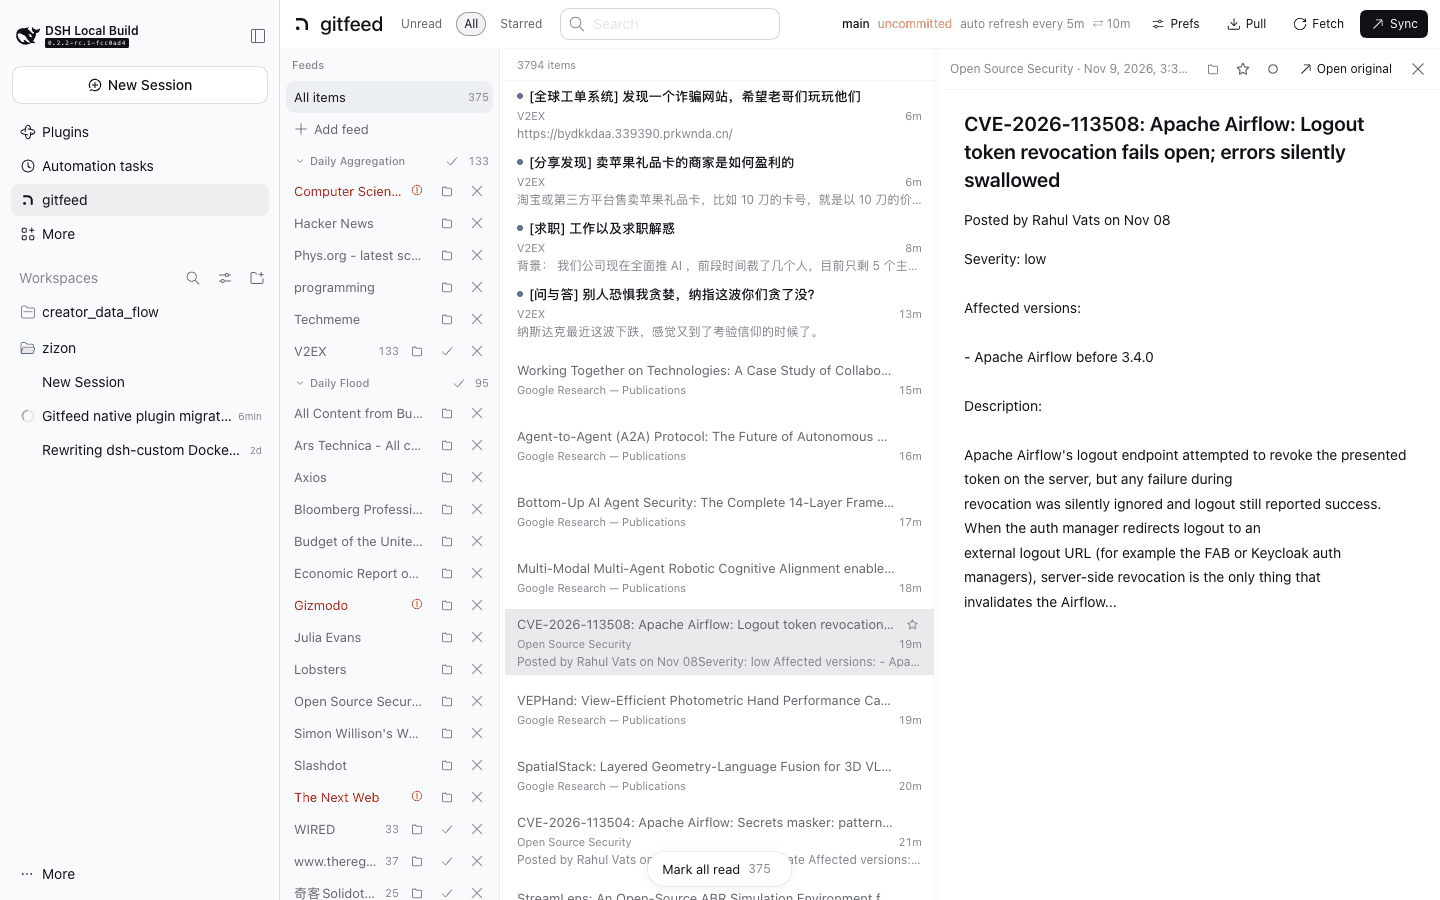
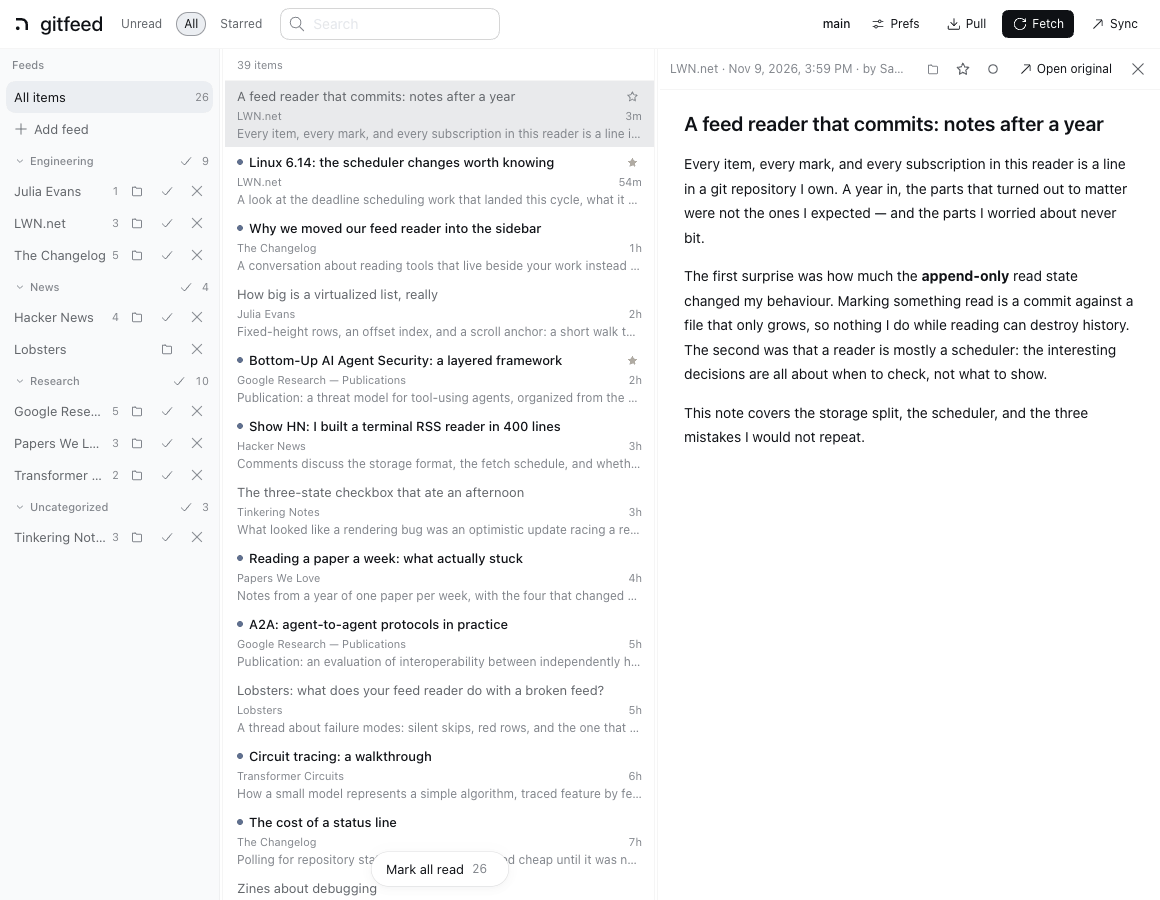
readme: demo screenshots, and the audit for a public repository
The screenshots shipped in the last commit were of a real reader: somebody's
subscriptions, article titles, and reading history, in a repository that is
about to be public. They are now taken against `docs/screenshots/demo-library.js`
— a fixture that answers the reader's own `/gitfeed/api/state` route — so the
images show the plugin, not a person. The app's session sidebar is cropped out
for the same reason, and the file is shipped so the images can be retaken.

Audit of the whole history (97 commits, 98 tracked files) for a public audience:

- no credentials: no token, key, or private key shape in any commit, no
  `.env`, keychain, or credential file ever added, no internal hostname or
  absolute home path in tracked files
- no user data: `feeds.json`, `config.json`, and `data/` were never in this
  repository, which is what the two-repository split is for
- what remains is commit metadata: 96 commits carry a personal email address

Statements that were true only while the repository was private are gone: the
visibility table says public, the release section explains that `--provenance`
can be switched on once the repository is public, and the workflow and
`.gitignore` comments no longer describe a token-based release that the trusted
publisher replaced. `package.json` gains the author, homepage, bugs, and
keywords a public package should carry.

diff --git a/docs/screenshots/demo-library.js b/docs/screenshots/demo-library.js
@@ -1,0 +1,163 @@
+/**
+ * The library the screenshots in this directory were taken with.
+ *
+ * A public README must not picture somebody's real subscriptions, items, or
+ * reading history, so the captures are of the plugin running against this
+ * fixture instead: injected as an init script, it answers the reader's own
+ * `/gitfeed/api/state` route with a demo library and accepts every mutation
+ * without writing anything. Nothing here talks to a real data root.
+ *
+ * To retake the images: open the plugin page with this file as the document's
+ * init script, then open an item and the folder picker.
+ */
+
+/* eslint-disable */
+;(function demoLibrary() {
+  const HOUR = 3600 * 1000
+  const now = Date.now()
+  const at = function (hoursAgo) { return new Date(now - hoursAgo * HOUR).toISOString() }
+
+  const feeds = [
+    { id: 'lwn', title: 'LWN.net', folder: 'Engineering', siteUrl: 'https://lwn.net/', url: 'https://lwn.net/headlines/rss', error: null, checkedAt: at(0.02), kind: 'rss' },
+    { id: 'changelog', title: 'The Changelog', folder: 'Engineering', siteUrl: 'https://changelog.com/', url: 'https://changelog.com/feed', error: null, checkedAt: at(0.1), kind: 'rss' },
+    { id: 'jvns', title: 'Julia Evans', folder: 'Engineering', siteUrl: 'https://jvns.ca/', url: 'https://jvns.ca/atom.xml', error: null, checkedAt: at(0.3), kind: 'rss' },
+    { id: 'papers', title: 'Papers We Love', folder: 'Research', siteUrl: 'https://paperswelove.org/', url: 'https://paperswelove.org/feed', error: null, checkedAt: at(0.4), kind: 'rss' },
+    { id: 'transformer', title: 'Transformer Circuits', folder: 'Research', siteUrl: 'https://transformer-circuits.pub/', url: 'https://transformer-circuits.pub/feed.xml', error: null, checkedAt: at(0.5), kind: 'rss' },
+    { id: 'google', title: 'Google Research — Publications', folder: 'Research', siteUrl: 'https://research.google/pubs/', url: 'https://research.google/pubs/', error: null, checkedAt: at(0.6), kind: 'custom' },
+    { id: 'hn', title: 'Hacker News', folder: 'News', siteUrl: 'https://news.ycombinator.com/', url: 'https://news.ycombinator.com/rss', error: null, checkedAt: at(0.2), kind: 'rss' },
+    { id: 'lobsters', title: 'Lobsters', folder: 'News', siteUrl: 'https://lobste.rs/', url: 'https://lobste.rs/rss', error: null, checkedAt: at(0.7), kind: 'rss' },
+    { id: 'tinkering', title: 'Tinkering Notes', folder: null, url: 'https://tinkering.example/feed.xml', siteUrl: 'https://tinkering.example/', error: null, checkedAt: at(0.8), kind: 'rss' },
+  ]
+
+  /** [title, feed, hours ago, author, summary] */
+  const rows = [
+    ['A feed reader that commits: notes after a year', 'lwn', 0.05, 'Sam Reyes',
+      '<p>Every item, every mark, and every subscription in this reader is a line in a git repository I own. A year in, the parts that turned out to matter were not the ones I expected — and the parts I worried about never bit.</p>'
+      + '<p>The first surprise was how much the <strong>append-only</strong> read state changed my behaviour. Marking something read is a commit against a file that only grows, so nothing I do while reading can destroy history. The second was that a reader is mostly a scheduler: the interesting decisions are all about when to check, not what to show.</p>'
+      + '<p>This note covers the storage split, the scheduler, and the three mistakes I would not repeat.</p>'],
+    ['Linux 6.14: the scheduler changes worth knowing', 'lwn', 0.9, 'Rebecca Chen',
+      '<p>A look at the deadline scheduling work that landed this cycle, what it means for latency-sensitive workloads, and the two benchmarks that do not agree.</p>'],
+    ['Why we moved our feed reader into the sidebar', 'changelog', 1.4, 'The Changelog',
+      '<p>A conversation about reading tools that live beside your work instead of in another tab, and what that changes about how often you actually read.</p>'],
+    ['How big is a virtualized list, really', 'jvns', 2.1, 'Julia Evans',
+      '<p>Fixed-height rows, an offset index, and a scroll anchor: a short walk through the arithmetic that keeps a ten-thousand-row list from re-rendering itself.</p>'],
+    ['Bottom-Up AI Agent Security: a layered framework', 'google', 2.8, null,
+      '<p>Publication: a threat model for tool-using agents, organized from the sandbox outward.</p>'],
+    ['Show HN: I built a terminal RSS reader in 400 lines', 'hn', 3.2, 'hn-user',
+      '<p>Comments discuss the storage format, the fetch schedule, and whether read state belongs in git at all.</p>'],
+    ['The three-state checkbox that ate an afternoon', 'tinkering', 3.9, 'A. Developer',
+      '<p>What looked like a rendering bug was an optimistic update racing a reload. The fix was a queue and a debounce, and the lesson was about who owns the truth.</p>'],
+    ['Reading a paper a week: what actually stuck', 'papers', 4.5, 'Marta Silva',
+      '<p>Notes from a year of one paper per week, with the four that changed how I write code and the twenty that did not.</p>'],
+    ['A2A: agent-to-agent protocols in practice', 'google', 5.1, null,
+      '<p>Publication: an evaluation of interoperability between independently hosted agents.</p>'],
+    ['Lobsters: what does your feed reader do with a broken feed?', 'lobsters', 5.7, 'lobster',
+      '<p>A thread about failure modes: silent skips, red rows, and the one that made everyone argue — retry budgets.</p>'],
+    ['Circuit tracing: a walkthrough', 'transformer', 6.4, 'Transformer Circuits',
+      '<p>How a small model represents a simple algorithm, traced feature by feature, with the code to reproduce it.</p>'],
+    ['The cost of a status line', 'changelog', 7.2, 'The Changelog',
+      '<p>Polling for repository state every minute sounded cheap until it was not. What we changed, and the numbers.</p>'],
+    ['Zines about debugging', 'jvns', 8.0, 'Julia Evans',
+      '<p>Print, staple, and debug: a small collection of illustrations about the parts of programming nobody documents.</p>'],
+    ['Show HN: read state as NDJSON', 'hn', 8.8, 'hn-user',
+      '<p>One object per line, merged with union, and never rewritten. Comments ask the obvious question: what about deletes?</p>'],
+    ['Multi-modal alignment for robotic control', 'google', 9.6, null,
+      '<p>Publication: aligning vision and language embeddings for manipulation policies.</p>'],
+    ['A tiny scheduler with adaptive intervals', 'tinkering', 10.5, 'A. Developer',
+      '<p>Per-feed clocks, a backoff that only grows, and a debounce for reads. The whole thing is one interface with four methods.</p>'],
+    ['What we learned deleting a server-side job', 'changelog', 11.3, 'The Changelog',
+      '<p>Two hundred lines of workflow replaced by a timer that dies with the process, and why nobody missed it.</p>'],
+    ['The Go Blog: profiling without a profiler', 'hn', 12.1, 'hn-user',
+      '<p>Counting allocations by hand is old advice that still works when the tooling is not available.</p>'],
+    ['Papers We Love: distributed consensus, revisited', 'papers', 13.0, 'Marta Silva',
+      '<p>Rereading the Raft paper after a decade of production systems, with the sections that aged well.</p>'],
+    ['Sparse attention: what the numbers say', 'transformer', 14.2, 'Transformer Circuits',
+      '<p>A comparison of sparse and dense attention on long-context tasks, with the evaluation that changed our mind.</p>'],
+    ['Notes on writing a plugin that does nothing on its own', 'lwn', 15.1, 'Sam Reyes',
+      '<p>A plugin that owns no data and starts no server has a much smaller surface: the root is somewhere else, and the code can be public.</p>'],
+    ['Lobsters: how do you keep a reading list?', 'lobsters', 16.4, 'lobster',
+      '<p>Bookmarks, stars, and folders, and the people who use none of them.</p>'],
+    ['A year of small tools', 'tinkering', 17.8, 'A. Developer',
+      '<p>Twelve scripts, four still used daily, and the one that survived because it wrote nothing down.</p>'],
+    ['Show HN: git as a database for personal data', 'hn', 19.2, 'hn-user',
+      '<p>The comments split evenly between "obviously" and "please stop".</p>'],
+    ['Visualising a scroll anchor', 'jvns', 20.9, 'Julia Evans',
+      '<p>What actually happens to the viewport when rows land above the band you are reading.</p>'],
+    ['Publication: constrained decoding for small models', 'google', 22.4, null,
+      '<p>Publication: a grammar-guided decoder that runs inside the sampling loop.</p>'],
+    ['Steady state maintenance', 'papers', 24.0, 'Marta Silva',
+      '<p>A short paper on why the hard part of software is the second year.</p>'],
+    ['The archive is the product', 'lwn', 26.5, 'Rebecca Chen',
+      '<p>Feeds come and go; a durable local archive is what makes a reader worth keeping.</p>'],
+    ['Reading in a sidebar, six months later', 'changelog', 29.0, 'The Changelog',
+      '<p>Follow-up on a popular episode: what changed, and the two numbers that moved.</p>'],
+    ['A copy of every article, forever', 'tinkering', 31.5, 'A. Developer',
+      '<p>Retention is a policy, not a storage limit: what six months of items costs on disk.</p>'],
+    ['Show HN: an RSS reader with no server', 'hn', 34.0, 'hn-user',
+      '<p>Everything runs where you read it, which means nothing to deploy and nothing to keep running.</p>'],
+    ['The folder that should not exist', 'jvns', 37.0, 'Julia Evans',
+      '<p>On naming conventions that outlive the code that needed them.</p>'],
+    ['Publication: measuring tool-use reliability', 'google', 40.0, null,
+      '<p>Publication: an evaluation harness for agent tool calls across twelve models.</p>'],
+    ['Blogroll as a data structure', 'lobsters', 43.0, 'lobster',
+      '<p>How people organize a hundred subscriptions, and why folders beat tags here.</p>'],
+    ['Scheduling without a cron daemon', 'tinkering', 46.0, 'A. Developer',
+      '<p>Deadlines, not intervals: a one-method timer interface and the arithmetic behind it.</p>'],
+    ['Where does the read state live?', 'lwn', 49.0, 'Sam Reyes',
+      '<p>Append-only, union-merged, and never sorted: the file format that survives being edited by three machines.</p>'],
+    ['A feed that is a script', 'transformer', 52.0, 'Transformer Circuits',
+      '<p>When a publication list has no RSS, the feed is whatever a short script returns.</p>'],
+    ['Papers We Love: the second read', 'papers', 55.0, 'Marta Silva',
+      '<p>Rereading is the whole trick, and nobody does it.</p>'],
+    ['Nightly builds of a personal archive', 'changelog', 58.0, 'The Changelog',
+      '<p>What breaks when you rebuild a year of items from cache, and how to check you did it right.</p>'],
+  ]
+
+  const items = rows.map(function (row, index) {
+    return {
+      id: 'demo-' + String(index).padStart(2, '0'),
+      feed: row[1],
+      title: row[0],
+      link: 'https://example.com/read/' + index,
+      date: at(row[2]),
+      author: row[3] || '',
+      summary: row[4],
+    }
+  })
+
+  // A mix of read and unread, and two stars, so the captures show real state.
+  const read = items.filter(function (item, index) { return index % 3 === 0 }).map(function (item) { return item.id })
+  const starred = [items[1].id, items[4].id]
+
+  const state = {
+    version: 'demo-1',
+    itemsVersion: 'demo-items-1',
+    items: items,
+    feeds: feeds,
+    read: read,
+    starred: starred,
+    reader: { hideEmptyFeeds: true, markReadOnScroll: true, groupBy: 'none' },
+    git: { repo: true, branch: 'main', dirty: false, remotes: ['origin'], ahead: 0, behind: 0 },
+    schedule: [],
+    repo: '~/gitfeed',
+    allowGit: true,
+  }
+
+  const realFetch = window.fetch.bind(window)
+  window.fetch = function (input, init) {
+    const url = typeof input === 'string' ? input : (input && input.url) || ''
+    if (url.indexOf('/gitfeed/api/state') !== -1) {
+      return Promise.resolve(new Response(JSON.stringify(state), {
+        status: 200,
+        headers: { 'content-type': 'application/json' },
+      }))
+    }
+    if (url.indexOf('/gitfeed/api/') !== -1) {
+      return Promise.resolve(new Response(JSON.stringify({ ok: true, version: 'demo-1' }), {
+        status: 200,
+        headers: { 'content-type': 'application/json' },
+      }))
+    }
+    return realFetch(input, init)
+  }
+})()

diff --git a/README.md b/README.md
@@ -27,13 +27,17 @@ The same reader in the right Sidebar, beside whatever session is open:
 Moving a source lists the folders already in use, marks the one it is in, and
 keeps naming a new one on its own row:
 
-![The folder picker open over the feed rail, listing Daily Aggregation, Daily Flood, Fresh, News, Papers, Publication, Uncategorized, and a New folder row](docs/screenshots/picker.png)
+![The folder picker open over the feed rail, listing the folders in use and a New folder row](docs/screenshots/picker.png)
+
+The library in those images is a fixture (`docs/screenshots/demo-library.js`),
+not a real reading list: it answers the reader's own API with invented
+subscriptions and items, so no one's feeds or history are in this repository.
 
 ## Two repositories, one reader
 
 | repository | contents | visibility |
 | --- | --- | --- |
-| `zizon/gitfeed-native` (this one) | the plugin: TypeScript sources, bundle metadata, CLI | private today; publish it when ready |
+| `zizon/gitfeed-native` (this one) | the plugin: TypeScript sources, bundle metadata, CLI | public |
 | `zizon/gitfeed` | the reader data: `feeds.json`, `config.json`, `data/` | private, cloned to `~/gitfeed` |
 
 Why split them:
@@ -857,18 +861,17 @@ anonymously, and the lockfile records only integrity hashes
 (`lockfileIncludeTarballUrl: false`), so a machine that installs through a
 mirror produces the same file CI can verify.
 
-Publishing runs without `--provenance` on purpose: npm attestation requires the
-source repository to be public, and this one is not yet. When it is, add
-`--provenance` to both publish steps.
+Publishing does not pass `--provenance` yet: npm attestation requires the
+source repository to be public, and this one is only now being opened up. Once
+it is, add the flag to both publish steps (`npm publish --access public
+--provenance`); the workflow already carries the `id-token: write` permission
+that lets npm attest, and `npm attest` or the package page can then verify which
+workflow run and commit produced the tarball.
 
-Before anything is published, these are the repo-side steps:
-
-1. Confirm `git log` has no data files, secrets, or local paths.
-2. Choose a license. There is none today, which a published package should not
-   be missing; add `LICENSE` and a `license` field to `package.json`.
-3. Flip this repository to public (`gh repo edit --visibility public
-   --accept-visibility-change-consequences`), then switch the install spec in
-   this README to `@zizon/gitfeed-native`.
+Everything else in the release path needs no manual setup: the repository is
+public, the package is published through a trusted publisher, and the two things
+that must stay private — the data repository and any registry credential — are
+not in this tree. `.gitignore` covers the local files that carry them.
 
 ## Limitations
 
